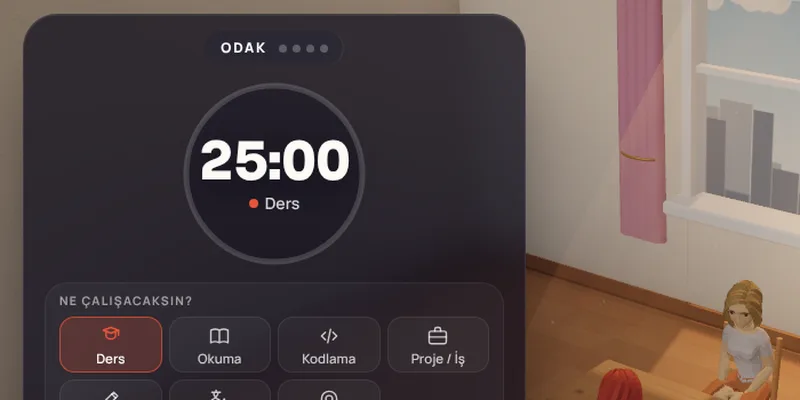
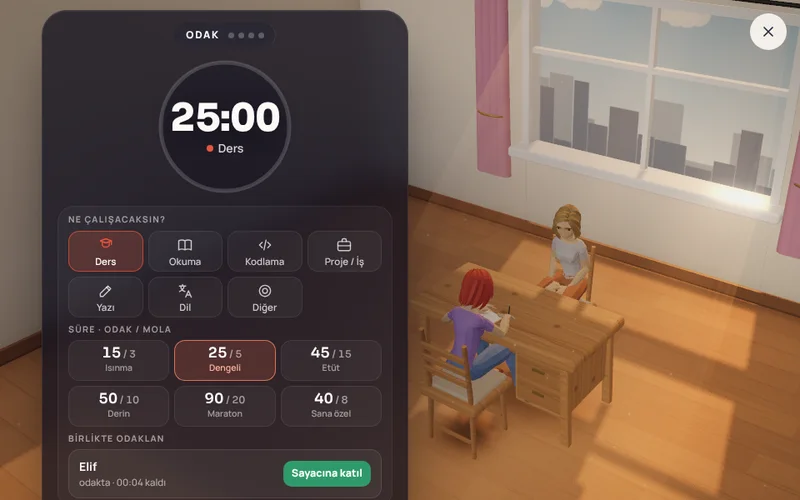
Login photos: a suited character head to shoes, focus screen with someone studying, the full room; character preview camera pulled back so the head and feet are never cut
Claude-Session: https://claude.ai/code/session_01Hxmz8dFR8spNGYyqfqg6WG

diff --git a/client/src/styles.css b/client/src/styles.css
@@ -700,7 +700,7 @@ body.cinema .topbar, body.cinema .room-ui, body.cinema .home-hint { display: non
 .lg-card header small { font-size: 10.5px; color: var(--muted); letter-spacing: .06em; }
 .lg-media { position: relative; border-radius: 12px; overflow: hidden; background: #15131f; border: 1px solid rgba(255, 255, 255, .07); }
 .lg-media video, .lg-media img { display: block; width: 100%; height: 100%; object-fit: cover; }
-.lg-card .lg-media { aspect-ratio: 16 / 8; }
+.lg-card .lg-media { aspect-ratio: 16 / 10; }
 .lg-sw { width: 14px; height: 14px; border-radius: 50%; border: 2px solid rgba(255, 255, 255, .25); flex: none; }
 .lg-tag { position: absolute; left: 8px; top: 8px; padding: 3px 7px; border-radius: 6px; background: rgba(10, 8, 18, .72); font: 800 9.5px var(--f-body); letter-spacing: .08em; text-transform: uppercase; }
 .lg-row { margin-top: 9px; display: flex; align-items: center; gap: 8px; padding: 8px 10px; border-radius: 11px; background: rgba(255, 255, 255, .045); border: 1px solid rgba(255, 255, 255, .07); font-size: 12.5px; }

diff --git a/client/src/ui/AvatarPreview.tsx b/client/src/ui/AvatarPreview.tsx
@@ -14,8 +14,8 @@ function Turntable({ children }: { children: React.ReactNode }) {
 /** Live 3D preview of the avatar being designed in the lobby. */
 export function AvatarPreview({ code, motion }: { code: string; motion: Motion }) {
   return (
-    <Canvas dpr={[1, 2]} camera={{ position: [0, 1.15, 3.4], fov: 32 }} shadows
-      onCreated={({ gl, camera }) => { gl.toneMapping = THREE.ACESFilmicToneMapping; camera.lookAt(0, 0.85, 0); }}>
+    <Canvas dpr={[1, 2]} camera={{ position: [0, 1.05, 4.0], fov: 32 }} shadows
+      onCreated={({ gl, camera }) => { gl.toneMapping = THREE.ACESFilmicToneMapping; camera.lookAt(0, 0.9, 0); }}>
       <hemisphereLight args={['#fff4e6', '#5b4a66', 1.6]} />
       <directionalLight position={[2.5, 4, 3]} intensity={2.2} castShadow />
       <directionalLight position={[-3, 2, -2]} intensity={1.1} color="#ffb3a1" />
